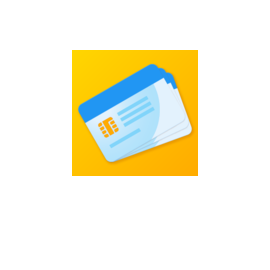
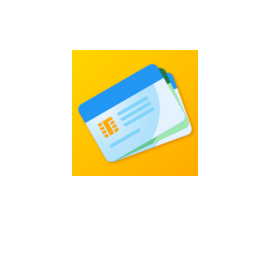
Updates

Changed region(s): [[0.4444, 0.4148, 0.7111, 0.5926], [0.5926, 0.237, 0.6519, 0.3556], [0.6519, 0.3556, 0.6815, 0.4148]]

diff --git a/index.html b/index.html
@@ -49,11 +49,11 @@
     <meta property="og:title" content="TesSa" />
     <meta
       property="og:description"
-      content="Le Tessere Sanitarie sempre con te"
+      content="Tessere Sanitarie e Green Pass sempre con te"
     />
     <meta
       property="og:image"
-      content="https://baleendevs.github.io/img/tessa_logo_1080.jpg"
+      content="https://baleendevs.github.io/img/tessa_logo_GP_1080.jpg"
     />
     <!-- Twitter -->
     <meta property="twitter:card" content="summary_large_image" />
@@ -61,11 +61,11 @@
     <meta property="twitter:title" content="TesSa" />
     <meta
       property="twitter:description"
-      content="Le Tessere Sanitarie sempre con te"
+      content="Tessere Sanitarie e Green Pass sempre con te"
     />
     <meta
       property="twitter:image"
-      content="https://baleendevs.github.io/img/tessa_logo_1080.jpg"
+      content="https://baleendevs.github.io/img/tessa_logo_GP_1080.jpg"
     />
 
     <link
@@ -84,10 +84,11 @@
       <div class="nav-wrapper">
         <div class="brand-logo center">
           <a href="index.html" class="valign-wrapper"
-            ><img class="logo-img" src="img/tessa_logo_small.png" alt="" /><span
-              class="title"
-              >TesSa</span
-            ></a
+            ><img
+              class="logo-img"
+              src="img/tessa_logo_GP_small.png"
+              alt=""
+            /><span class="title">TesSa</span></a
           >
         </div>
       </div>
@@ -95,15 +96,15 @@
     <main class="container">
       <div class="row">
         <div class="col s12 m6 l6 xl5 center">
-          <img class="tessa-screenshot" src="img/carousel1_s.jpg" alt="" />
+          <img class="tessa-screenshot" src="img/carousel1_s_GP.jpg" alt="" />
         </div>
         <div class="content col s12 m6 l6 xl7">
           <h4 class="index-content-title">
-            TesSa - Le Tessere Sanitarie sempre con te
+            TesSa - Tessere Sanitarie e Green Pass sempre con te
           </h4>
           <p class="flow-text">
-            Installa TesSa e porta sempre con te le Tessere Sanitarie di cui hai
-            bisogno
+            Installa TesSa e tieni sempre a portata di mano le Tessere Sanitarie
+            ed i Green Pass di cui hai bisogno
           </p>
           <div class="center-align">
             <a

diff --git a/en/index.html b/en/index.html
@@ -49,11 +49,11 @@
     <meta property="og:title" content="TesSa" />
     <meta
       property="og:description"
-      content="Bring your Health Insurance Cards always with you"
+      content="Health Insurance Cards and Green Passes at your fingertips"
     />
     <meta
       property="og:image"
-      content="https://baleendevs.github.io/img/tessa_logo_1080.jpg"
+      content="https://baleendevs.github.io/img/tessa_logo_GP_1080.jpg"
     />
     <!-- Twitter -->
     <meta property="twitter:card" content="summary_large_image" />
@@ -61,11 +61,11 @@
     <meta property="twitter:title" content="TesSa" />
     <meta
       property="twitter:description"
-      content="Bring your Health Insurance Cards always with you"
+      content="Health Insurance Cards and Green Passes at your fingertips"
     />
     <meta
       property="twitter:image"
-      content="https://baleendevs.github.io/img/tessa_logo_1080.jpg"
+      content="https://baleendevs.github.io/img/tessa_logo_GP_1080.jpg"
     />
 
     <link
@@ -86,7 +86,7 @@
           <a href="index.html" class="valign-wrapper"
             ><img
               class="logo-img"
-              src="../img/tessa_logo_small.png"
+              src="../img/tessa_logo_GP_small.png"
               alt=""
             /><span class="title">TesSa</span></a
           >
@@ -96,15 +96,19 @@
     <main class="container">
       <div class="row">
         <div class="col s12 m6 l6 xl5 center">
-          <img class="tessa-screenshot" src="../img/carousel1_s.jpg" alt="" />
+          <img
+            class="tessa-screenshot"
+            src="../img/carousel1_s_GP.jpg"
+            alt=""
+          />
         </div>
         <div class="content col s12 m6 l6 xl7">
           <h4 class="index-content-title">
-            TesSa - Bring your Health Insurance Cards always with you
+            TesSa - Health Insurance Cards and Green Passes at your fingertips
           </h4>
           <p class="flow-text">
-            Install TesSa and keep all the Health Insurance Cards you need
-            always with you
+            Install TesSa and bring all the Health Insurance Cards and Green
+            Passes you need always with you
           </p>
           <div class="center-align">
             <a
